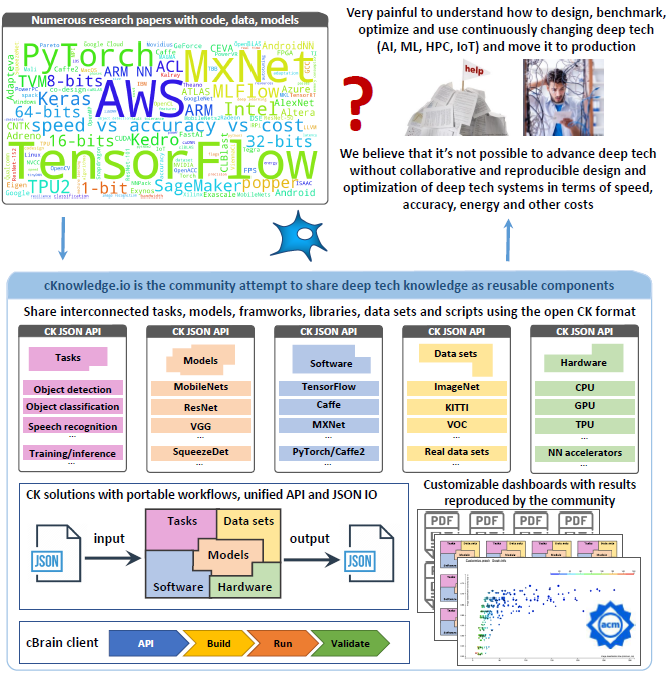
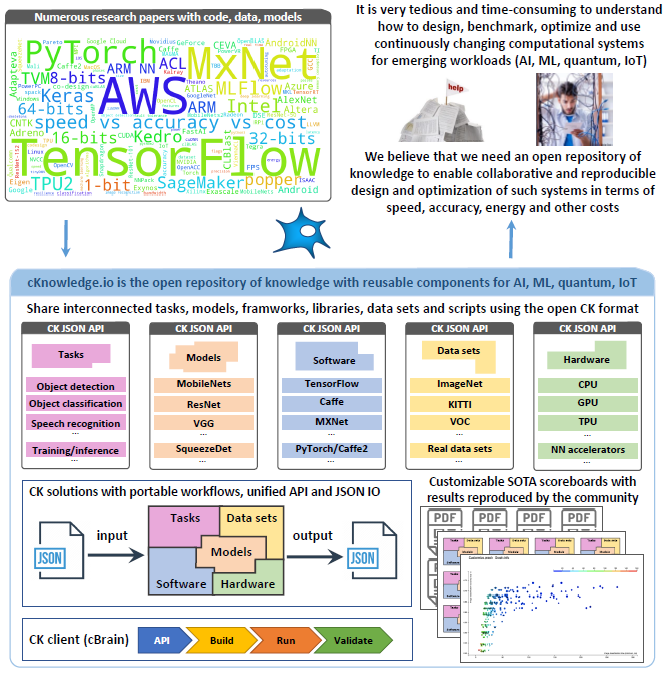
improving docs

diff --git a/wfe/artifact-evaluation/index.html b/wfe/artifact-evaluation/index.html
@@ -15,11 +15,11 @@
  </li>
 
  <li>
-  Building an open repository of reusable deep tech components from reproduced papers: <a href="https://cKnowledge.org">the Collective Knowledge project</a>
+  Building an open repository of reusable components and portable workflows from reproduced papers to collaboratively benchmark and optimize complex computational systems (AI, ML, quantum, IoT): <a href="https://cKnowledge.org">the Collective Knowledge project</a>
  </li>
 
  <li>
-  Unifying the artifact appendix and the reproducibility checklist at systems and ML conferences: <a href="$#ck_root_page_url#$submission_extra$#ck_page_suffix#$">ACM/cTuning</a> 
+  Working on a common methodology to share research artifacts (code, data, models) at systems and ML conferences: <a href="$#ck_root_page_url#$submission_extra$#ck_page_suffix#$">ACM/cTuning</a> 
  </li>
 
  <p>
@@ -39,23 +39,15 @@
 <ul>
 
 <p>
-Reproducing experimental results from computer systems and ML papers 
-is extremely challenging and time consuming due
-to continuously changing and possibly proprietary software 
+We often <a href="https://arxiv.org/abs/1406.4020">struggle</a> 
+to reproduce experimental results and reuse research code from scientifict papers (AI, ML, quantum, IoT)
+due to continuously changing and possibly proprietary software 
 and hardware, lack of common tools and interfaces, stochastic
-behavior of computer systems, a lack of common experimental methodology,
-and a lack of artifact reuse.
+behavior of computer systems and a lack of a common experimental methodology.
 
 <p>	
-After <a href="https://arxiv.org/abs/1406.4020">personally suffering from these problems</a> during our research
-on machine learning and computer systems we decided to help conferences organize reproducibility initiatives.
-
-<center>
-<img src="$#ck_url_template_pull#$resources/cknowledge-platform.png" width="50%"><br>
-</center>
-
-<p>
-We started validating results from accepted papers with the help of   
+That is why we decided to help systems and ML conferences
+validate results from accepted papers with the help of   
 <a href="$#ck_root_page_url#$committee$#ck_page_suffix#$">independent evaluators</a> 
 while collaborating with ACM on a common methodology, reproducibility checklist and tools 
 to automate this tedious process. Papers that successfully pass such evaluation process 
@@ -82,13 +74,17 @@ guidelines for more details.
 
 </ul>
 
+<center>
+<img src="$#ck_url_template_pull#$resources/cknowledge-platform.png" width="50%"><br>
+</center>
+
 <!------------------------------------------------>
 <p>
 <h3>Related initiatives:</h3>
 
 <ul>
  <li>
-  An <a href="https://cKnowledge.io/browse">Open knowledge portal about deep tech systems (AI, ML, quantum, IoT)</a> with <a href="https://cKnowledge.io/results">reproduced SOTA scoreboards</a>;
+  An <a href="https://cKnowledge.io/browse">Open knowledge portal about complex compuational systems (AI, ML, quantum, IoT)</a> with <a href="https://cKnowledge.io/results">public SOTA scoreboards and reproduced papers</a>;
  </li>
 
  <li><a href="https://www.sigarch.org/a-checklist-manifesto-for-empirical-evaluation-a-preemptive-strike-against-a-replication-crisis-in-computer-science/">SIGPLAN's checklist for empirical evaluation</a>;
